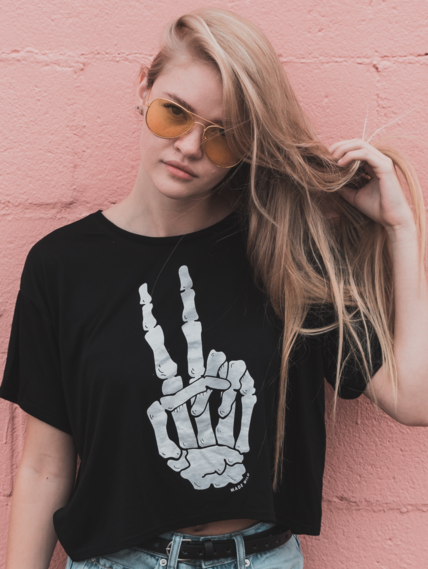
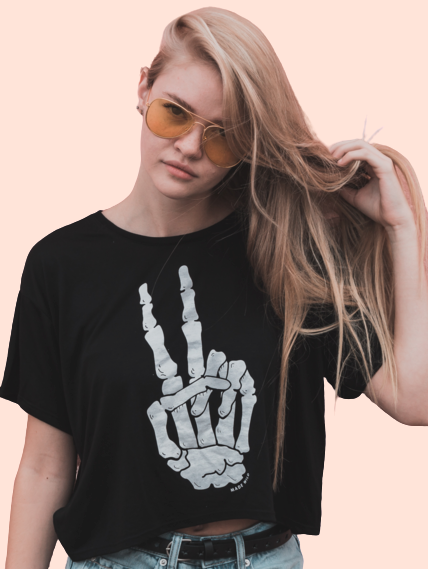
inserted the images with the right color for the layout

diff --git a/src/Authentication/Onboarding/Onboarding.tsx b/src/Authentication/Onboarding/Onboarding.tsx
@@ -41,14 +41,14 @@ const slides = [
         subtitle: 'Find Your Outfits', 
         description: 'Confused about your outfit? Dont`t worry! Find the best outfit here!', 
         color: '#bfeaf5',
-        picture: require('./assets/01.jpg'),
+        picture: require('./assets/01.png'),
     },
     { 
         title: 'Playful', 
         subtitle: 'Hear it First, Wear it First', 
         description: 'Hating the clothen in your wardrobe? Explore hundreds of outfit ideas', 
         color: '#beecc4',
-        picture: require('./assets/02.jpg'),
+        picture: require('./assets/02.png'),
     },
     { 
         title: 'Excentric', 
@@ -62,7 +62,7 @@ const slides = [
         subtitle: 'Look Good, Feel Good', 
         description: 'Discover the lastest trends in fashion and explore your personality', 
         color: '#ffdddd',
-        picture: require('./assets/04.jpg'),
+        picture: require('./assets/04.png'),
     }
 ];
 
